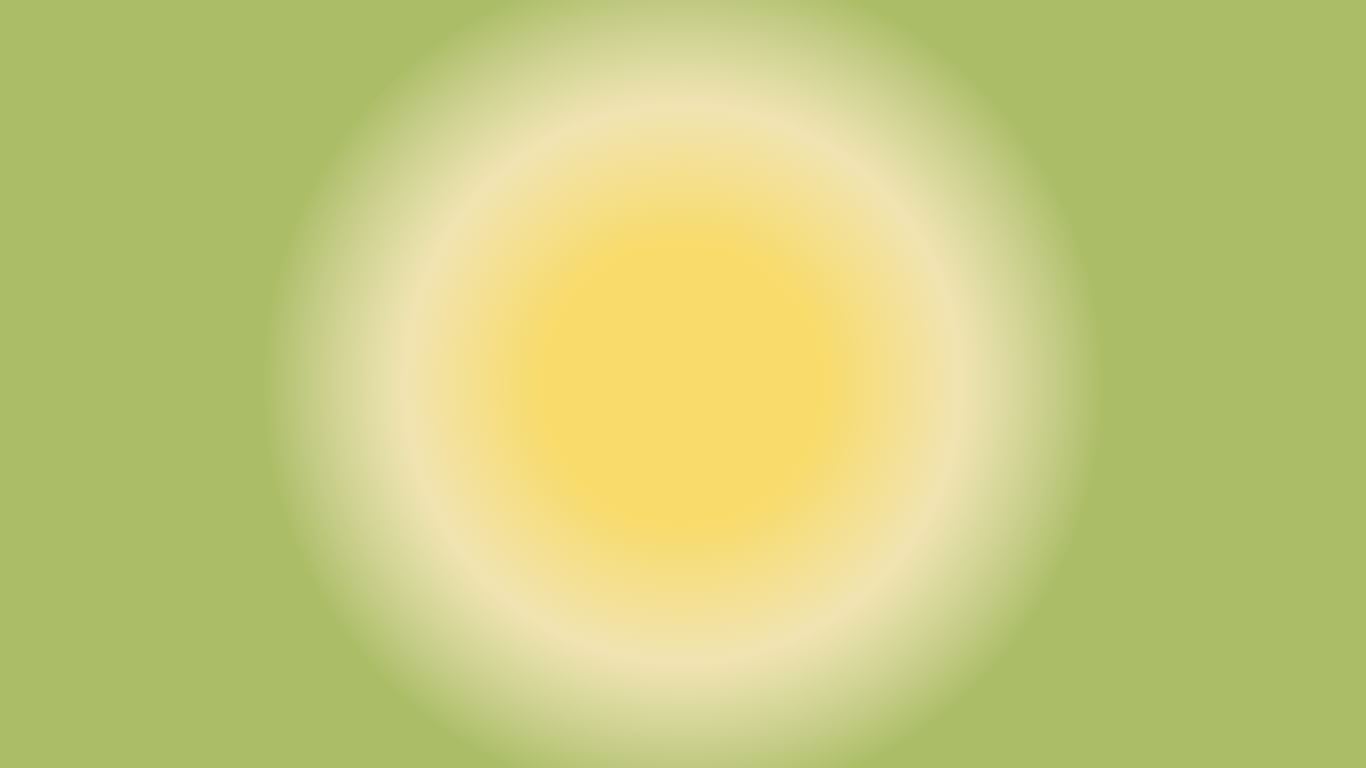
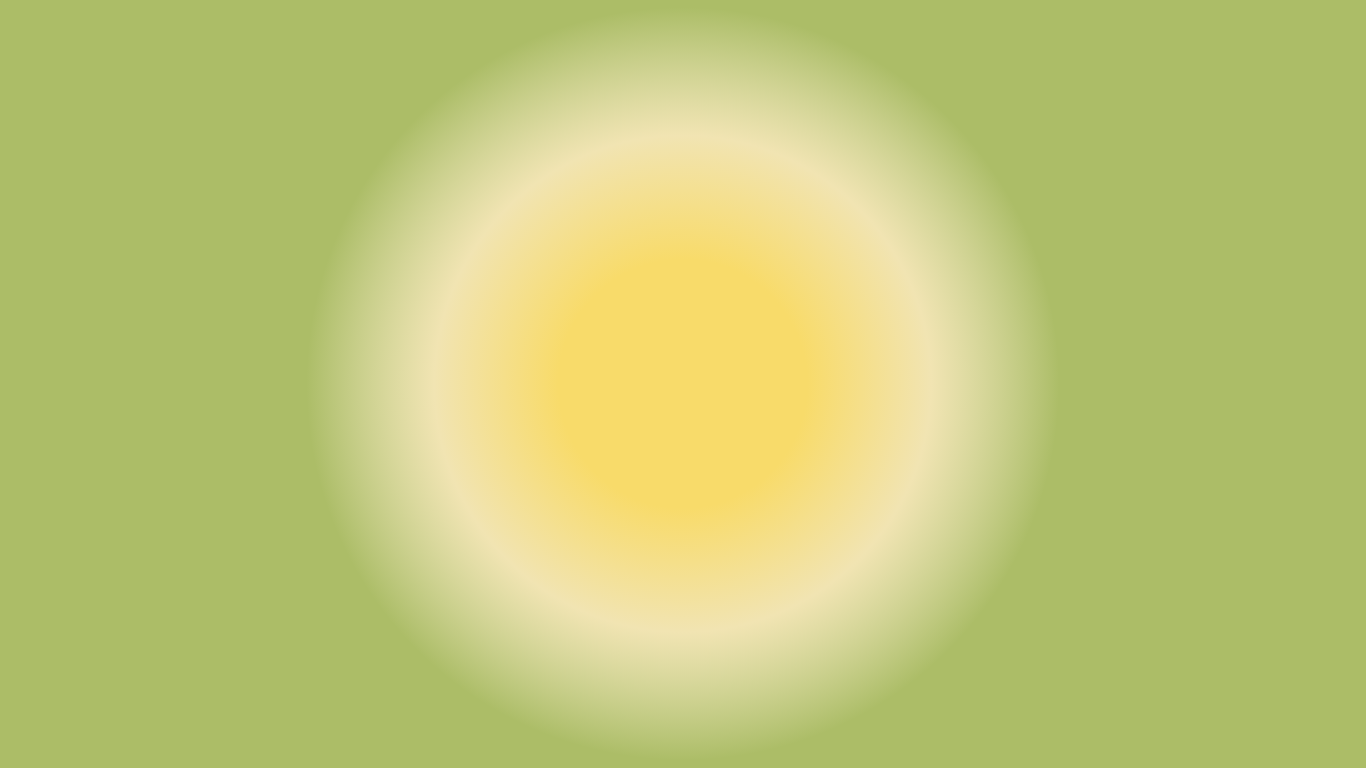
edits

Changed region(s): [[0.2152, 0.0, 0.7994, 1.0]]

diff --git a/plantpet/src/App.js b/plantpet/src/App.js
@@ -90,7 +90,33 @@ function App() {
         console.log(error);
       });
     setLevel(level + 0.1);
-    setSeed(seed+1);
+    setSeed(seed-5);
+    console.log("hi");
+    console.log(level);
+    setBackground(growBackground)
+    setTimeout(() => {
+      setBackground(defBackground)
+    }, 3000)
+  };
+
+  const clickGrowth = () => {
+    let tempUser = currUser;
+    tempUser.PlantLevel = tempUser.PlantLevel + 0.1;
+    console.log("-here");
+    console.log(tempUser.UserID);
+    console.log("-here");
+    let tempStr = "http://localhost:2500/users/" + String(tempUser.UserID);
+    console.log(tempStr);
+    axios
+      .patch(tempStr, tempUser)
+      .then(function (response) {
+        console.log(response);
+      })
+      .catch(function (error) {
+        console.log(error);
+      });
+    setLevel(level + 0.2);
+    setSeed(seed-10);
     console.log("hi");
     console.log(level);
     setBackground(growBackground)
@@ -101,7 +127,7 @@ function App() {
 
   const [level, setLevel] = useState(1);
   const [currUser, setCurrUser] = useState([]);
-  const [seed, setSeed] = useState(0);
+  const [seed, setSeed] = useState(50);
 
   //isAuthenticated && setLevel(10);
   const [allUsers, setAllUsers] = useState([]);
@@ -211,9 +237,9 @@ function App() {
               {/* popup content here */}
               <div>
                 <Button onClick={clickFertilizer} variant="success" size="lg">
-                  Fertilizer
+                   Fertilizer 
                 </Button>{" "}
-                <Button onClick={clickFertilizer} variant="warning" size="lg">
+                <Button onClick={clickGrowth} variant="warning" size="lg">
                   Growth Light
                 </Button>{" "}
               </div>
